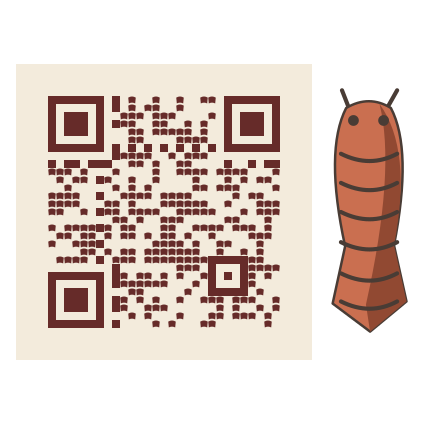
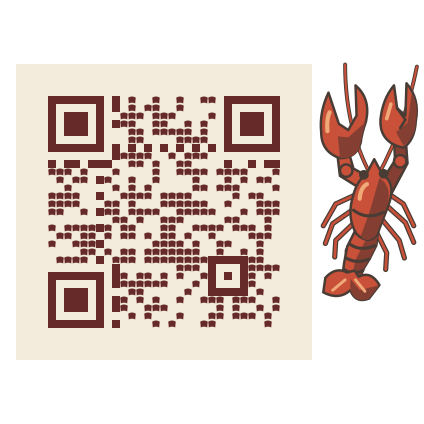
The lobster-shell code as a whole lobster (Still QR a5ce920, redrawn through the ChatGPT app after blind readers took the old prop for a shrimp or a grub); its 5 codes pass the scan check, 339 of 339 in all. The read check rejects unknown fields in its key. Chapter 9's final blind read: none flagged

Changed region(s): [[0.7358, 0.1533, 1.0, 0.7972]]

diff --git a/src/gen/qr_images.js b/src/gen/qr_images.js
@@ -1,4 +1,4 @@
-// GENERATED by tools/qr_images.mjs from Still QR fcbe1f0; do not edit.
+// GENERATED by tools/qr_images.mjs from Still QR a5ce920; do not edit.
 window.QR_IMAGES = {
  "feathers|M|f|https://doi.org/10.1145/3442188.3445922": {
   "file": "assets/qr/f/stochastic-parrots.png",

diff --git a/docs/CHECKLIST.md b/docs/CHECKLIST.md
@@ -17,7 +17,7 @@ As of 2026-09-27. The phases are in VIDEO_PLAN.md §7.
 - [ ] Redraw the chapters with the new codes (`npm run rebuild`).
 - [x] Do a careful pass on the comic page's caricatures in the cold open.
 - [x] A blind-read check (`npm run reads -- --chapter=N`, key in `docs/reads/`): chapter 9 done, 4 frames flagged and 10 worth a look.
-- [x] Fix chapter 9's flagged reads: 1 flagged (the lobster-shell code, being redrawn in Still QR) and 6 worth a look, down from 6 flagged and 9 worth a look under the stricter test.
+- [x] Fix chapter 9's flagged reads: none flagged and 5 worth a look (down from 6 and 9 under the stricter test). The lobster-shell code was redrawn in Still QR as a whole lobster. One of the 5 is chapter 9's figure for Curt, which readers doubt is a man; it waits on your decision about your look.
 - [ ] Write read keys for the other chapters and run them.
 
 ## Voices (phase 3)

diff --git a/script/qr_report.md b/script/qr_report.md
@@ -8,7 +8,7 @@ by at least one decoder, and at least two decoders each read 13 or more of the 1
 each has blind spots: ZXing-js fails some perfect, computer-generated codes outright, and jsQR misses sporadically at
 particular scales.
 
-**339 of 339 pass.** (117 unchanged since their last check, so their results are reused.)
+**339 of 339 pass.** (339 unchanged since their last check, so their results are reused.)
 
 | code | style | mode | trials read | jsQR | ZXing | ZBar | youtube (jsQR ZXing ZBar) | phone | pixel 1:1 (info) |
 |---|---|---|---|---|---|---|---|---|---|
